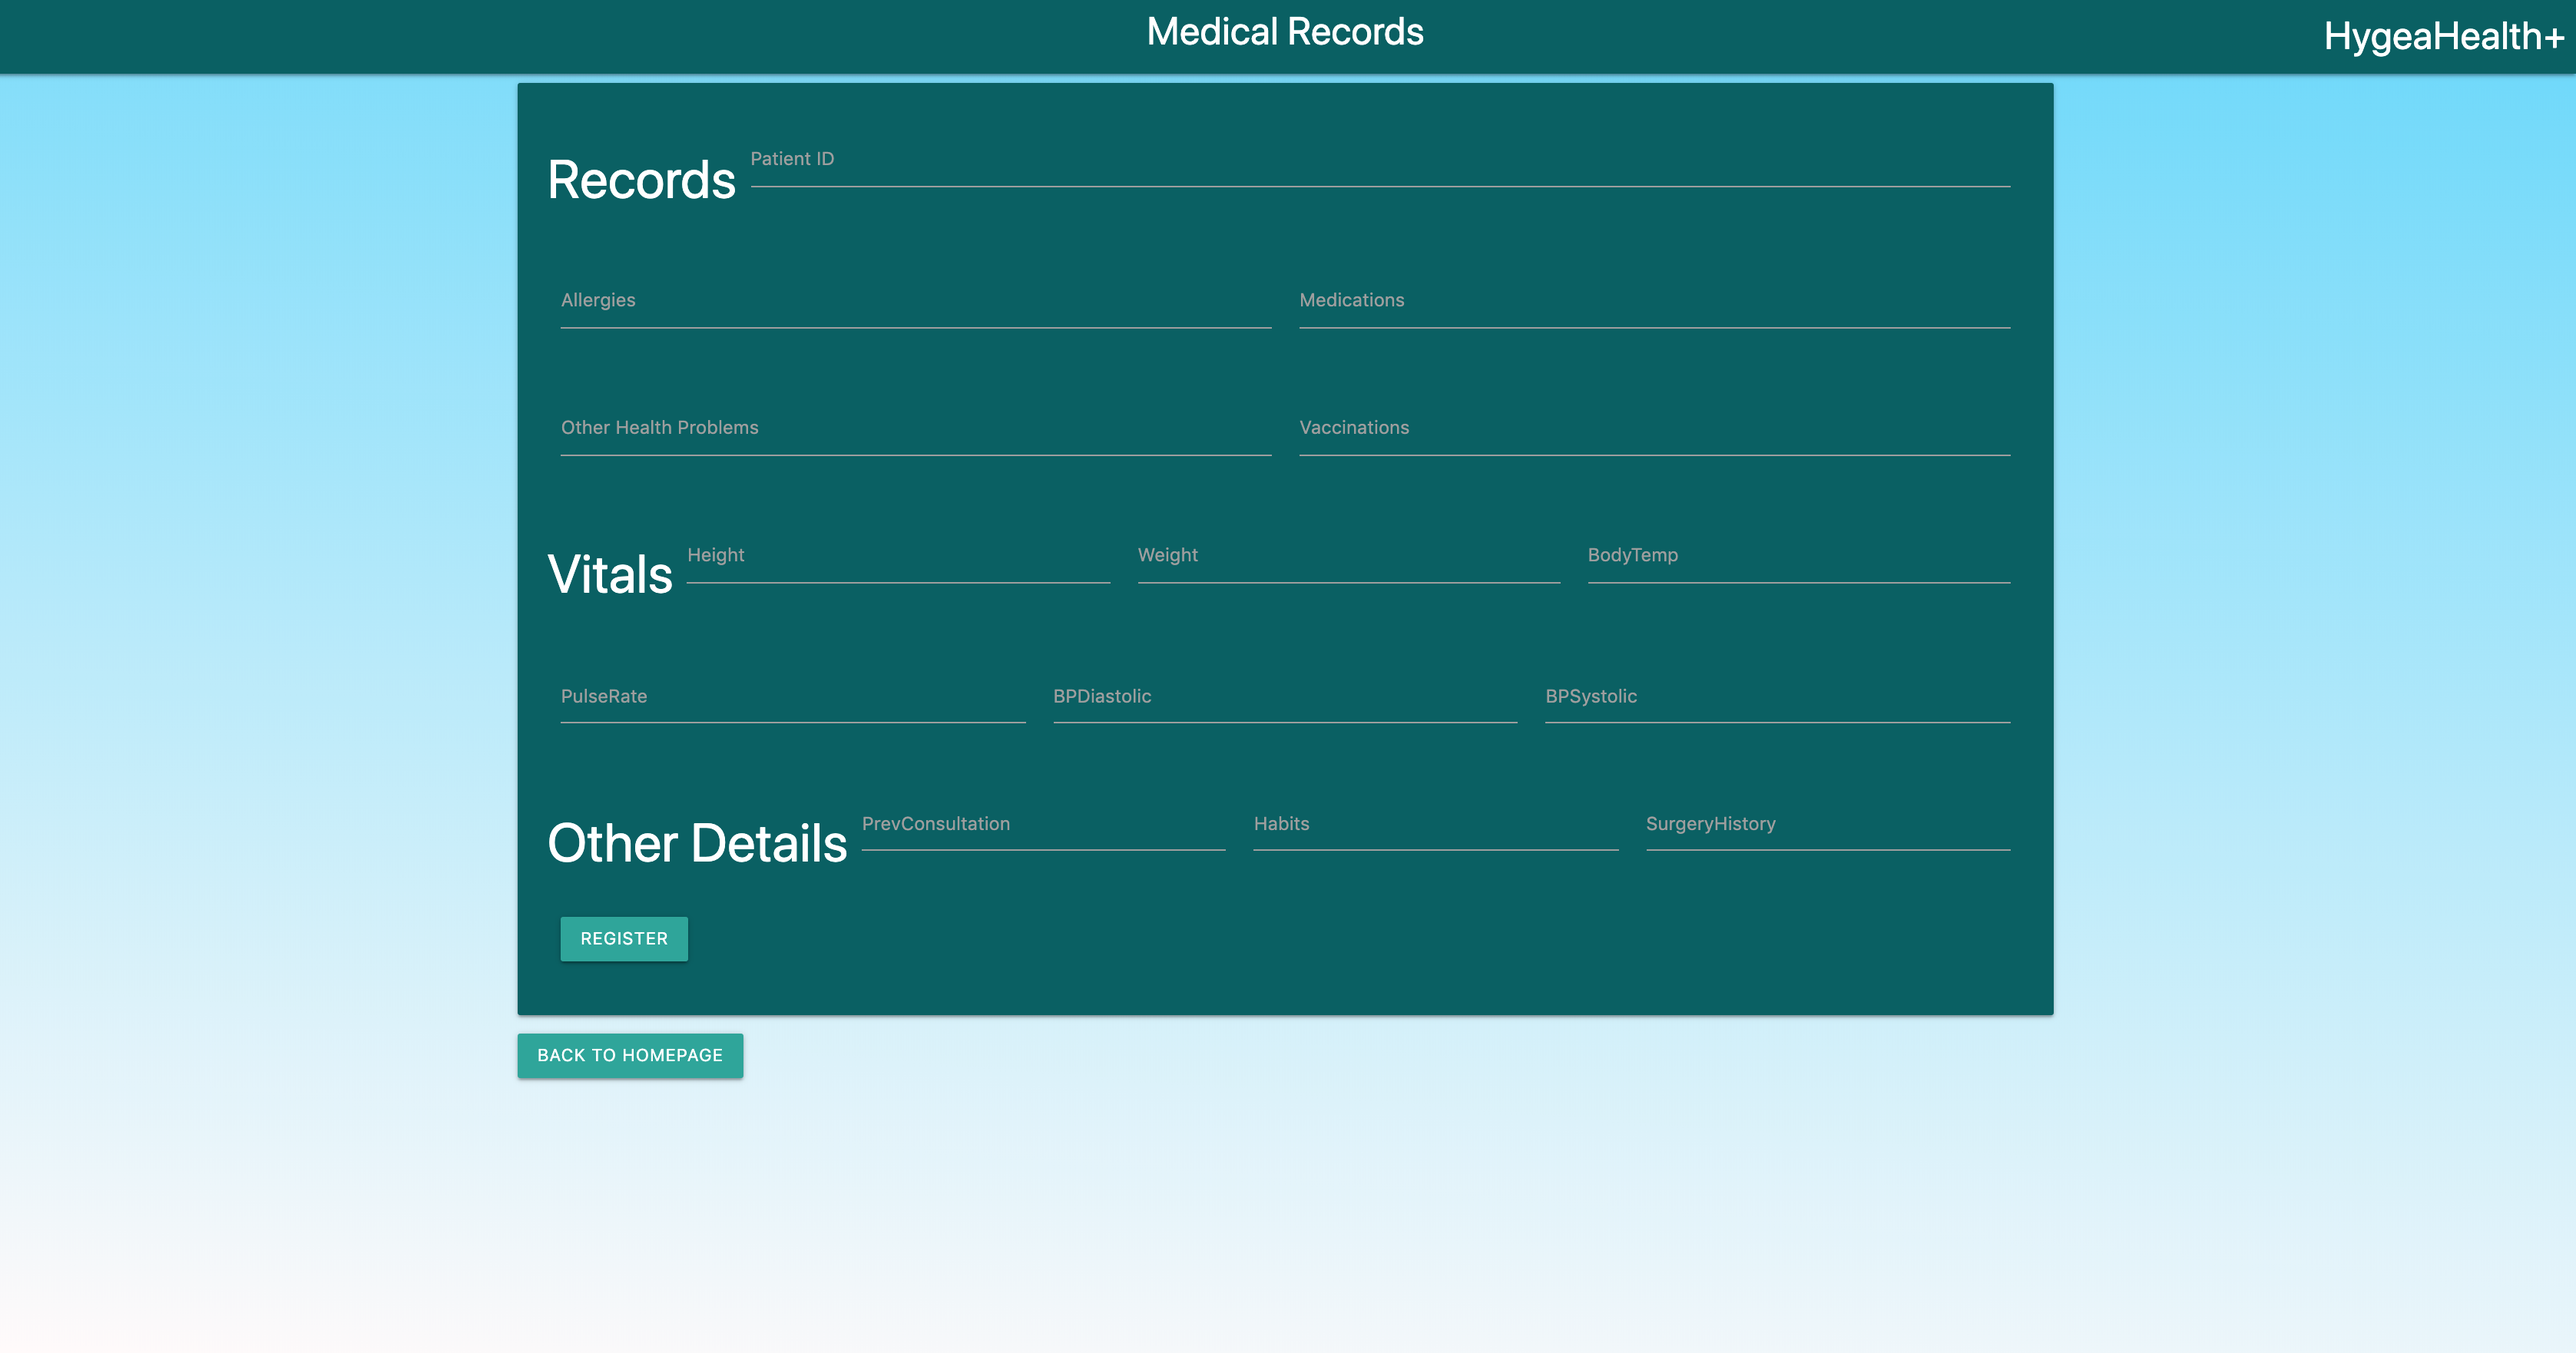
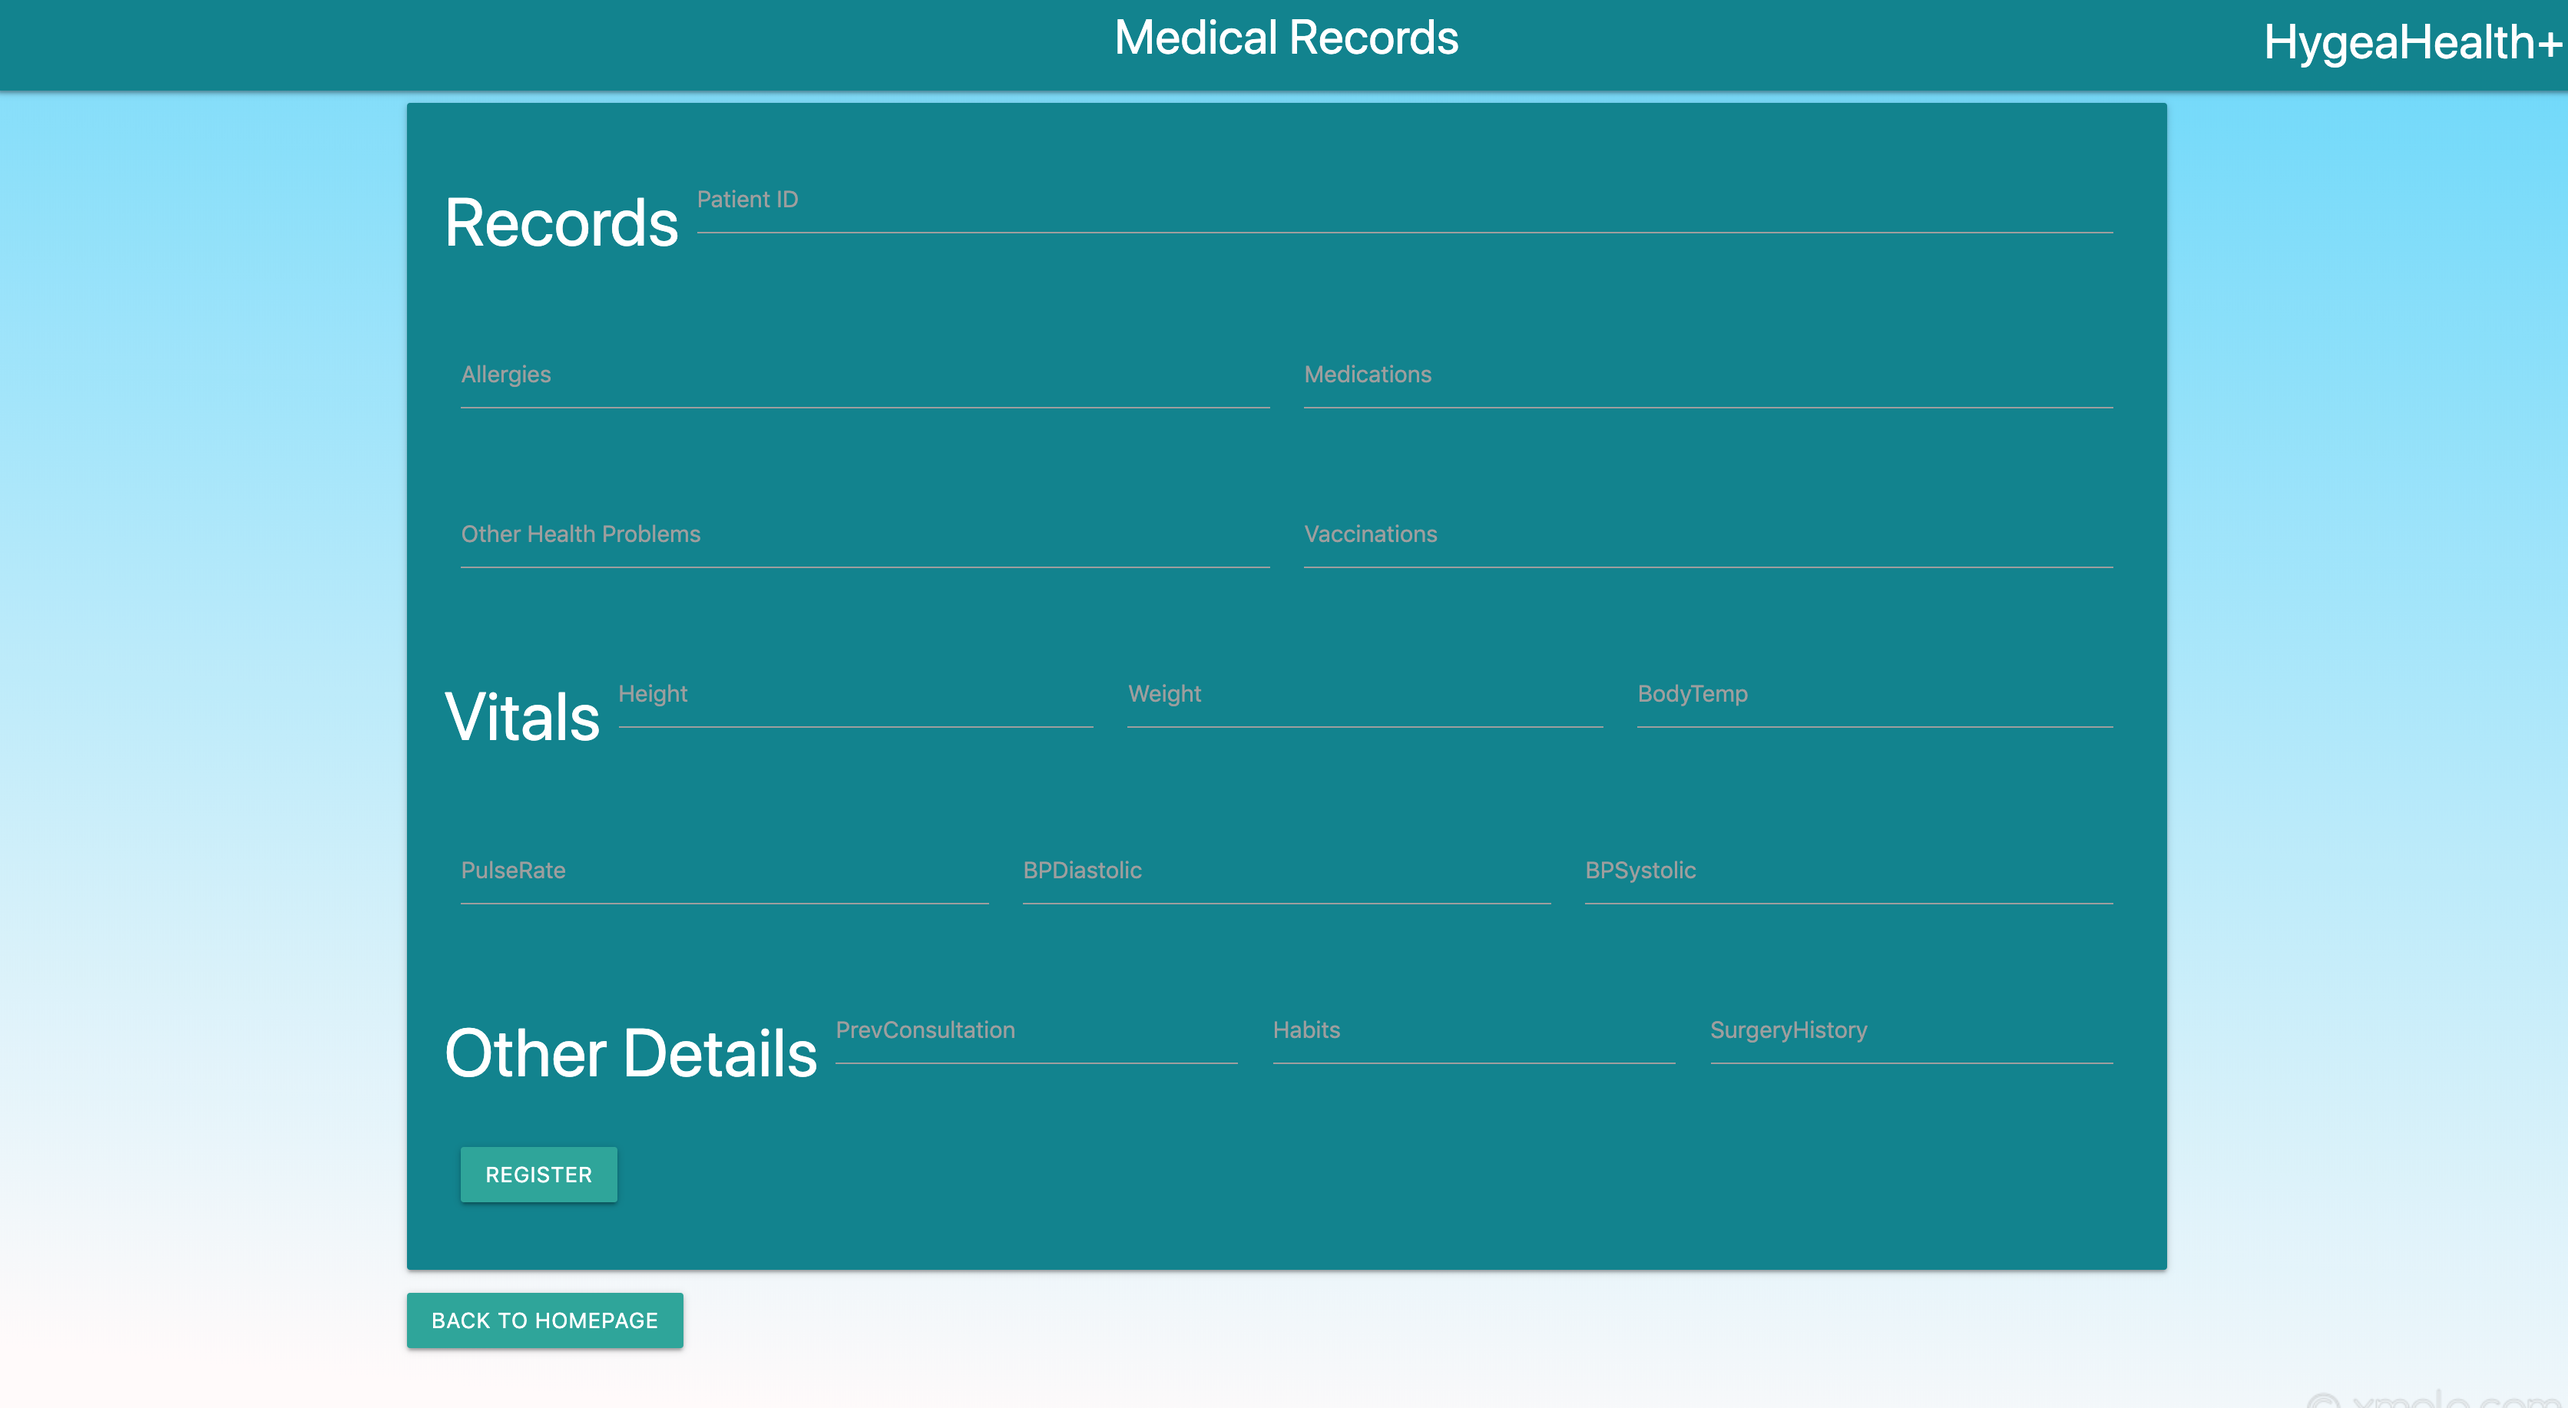
UI Screen Shots Updated

diff --git a/build/web/AddMedicalRecord.html b/build/web/AddMedicalRecord.html
@@ -37,7 +37,7 @@ and open the template in the editor.
     <body>
 
     	<nav>
-          <div class="nav-wrapper cyan darken-4">
+          <div class="nav-wrapper cyan darken-3">
               
                 <!-- Add Medical Records -->
               
@@ -47,7 +47,7 @@ and open the template in the editor.
       	</nav>
 
         <div class = "container">
-        <div class="card-panel cyan darken-4">
+        <div class="card-panel cyan darken-3">
             <div class="row">
               <form class="col s6" method="post" action="addmedrec">
 

diff --git a/web/AddMedicalRecord.html b/web/AddMedicalRecord.html
@@ -37,7 +37,7 @@ and open the template in the editor.
     <body>
 
     	<nav>
-          <div class="nav-wrapper cyan darken-4">
+          <div class="nav-wrapper cyan darken-3">
               
                 <!-- Add Medical Records -->
               
@@ -47,7 +47,7 @@ and open the template in the editor.
       	</nav>
 
         <div class = "container">
-        <div class="card-panel cyan darken-4">
+        <div class="card-panel cyan darken-3">
             <div class="row">
               <form class="col s6" method="post" action="addmedrec">
 
